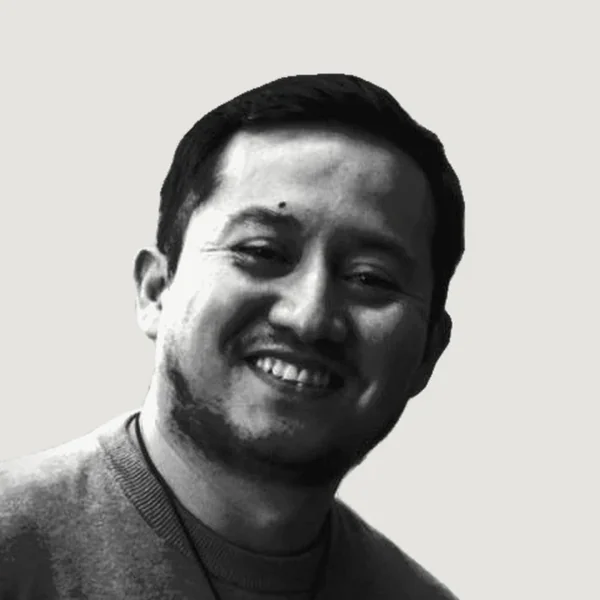
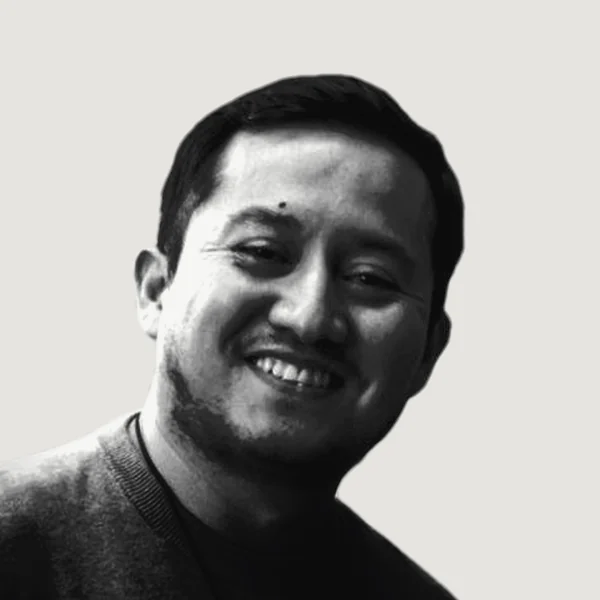
R6b: hallazgos de la verificación R6
- Nosotros: la credencial va pegada a la bio; cargo, nombre y enlaces siguen alineados por filas, sin hueco en la ficha de Lorenzo.
- Retratos quietos (Parallax con `quieto`) en la portada y /libro; el pelo ya no toca el filete.
- Retrato de Eddie rehecho: borde suave y suéter más oscuro, misma escala y encuadre.
- /libro: credencial en seminegrita; tarjeta del PDF rotulada «PDF»; la nota ya no repite el descargo del pie (también en /programas).
- /actualizaciones: columna «Valor vigente» solo cuando hay valor; el aviso va una vez en la entradilla; nota final sin repetir el descargo.
- /workbook/[id]: el recuadro «trae» no se repite cuando solo nombra plantillas de «Necesitas antes»; «Siguiente plantilla» a 24 px; «Descarga el kit» con el mismo destino que el encabezado.
- «Diagnóstico de nivel» con mayúscula en la portada y en sitio.ts.
- Portada, Programas: en celular el dato va debajo del nombre.
- PENDIENTES-WEB y reglas-diseno al día.

Claude-Session: https://claude.ai/code/session_0138EnzXfWhPJtfVtctGk4Mc

diff --git a/src/app/(site)/actualizaciones/page.tsx b/src/app/(site)/actualizaciones/page.tsx
@@ -10,6 +10,10 @@ export const metadata: Metadata = {
   alternates: { canonical: "/actualizaciones" },
 };
 
+/** La columna «Valor vigente» aparece cuando al menos una cifra tiene su valor del año; mientras tanto, el aviso va una vez bajo el titular. */
+const HAY_VIGENTE = ACTUALIZACIONES.some((c) => c.valores.some((v) => v.vigente));
+const COLS = HAY_VIGENTE ? "lg:grid-cols-[minmax(0,1.5fr)_minmax(0,1fr)_minmax(0,1fr)_minmax(0,1fr)_minmax(0,1fr)]" : "lg:grid-cols-[minmax(0,1.5fr)_minmax(0,1fr)_minmax(0,1fr)_minmax(0,1fr)]";
+
 export default function ActualizacionesPage() {
   return (
     <>
@@ -18,7 +22,7 @@ export default function ActualizacionesPage() {
           <HeroHead id="act-h" label={["Doble Agente", "Anexos por país"]} title="Valores del año" />
           <p className="lead mt-5 lg:mt-7 max-w-[780px]">
             Las cifras que cambian cada año van marcadas «valor 2026» en el libro. Aquí está cada una con el capítulo o la plantilla que la usa y el sitio oficial donde
-            verificas la del año en que calculas.
+            verificas la del año en que calculas.{HAY_VIGENTE ? "" : " Cuando la autoridad fije el valor del año, lo sumamos a la tabla."}
           </p>
           <nav aria-label="Países" className="flex flex-wrap gap-x-6 gap-y-2 mt-7">
             {ACTUALIZACIONES.map((c) => (
@@ -42,16 +46,16 @@ export default function ActualizacionesPage() {
               </Mono>
             </div>
             <div className="mt-6 border-b border-t border-ink lg:border-t-0">
-              <div className="hidden lg:grid grid-cols-[minmax(0,1.5fr)_minmax(0,1fr)_minmax(0,1fr)_minmax(0,1fr)_minmax(0,1fr)] gap-6 py-2 wm text-ink3 font-medium border-t border-b border-ink" aria-hidden="true">
+              <div className={`hidden lg:grid ${COLS} gap-6 py-2 wm text-ink3 font-medium border-t border-b border-ink`} aria-hidden="true">
                 <span>Cifra</span>
                 <span>Valor 2026 en el libro</span>
                 <span>Dónde se usa</span>
-                <span>Valor vigente</span>
+                {HAY_VIGENTE && <span>Valor vigente</span>}
                 <span>Dónde verificar</span>
               </div>
               <ul>
                 {c.valores.map((v) => (
-                  <li key={v.nombre} className="grid gap-x-6 gap-y-2 py-4 border-t border-ink3 first:border-t-0 lg:grid-cols-[minmax(0,1.5fr)_minmax(0,1fr)_minmax(0,1fr)_minmax(0,1fr)_minmax(0,1fr)]">
+                  <li key={v.nombre} className={`grid gap-x-6 gap-y-2 py-4 border-t border-ink3 first:border-t-0 ${COLS}`}>
                     <span className="text-cuerpo font-bold leading-[1.35]">{v.nombre}</span>
                     <span className="text-cuerpo">
                       <span className="wm text-ink2 lg:hidden block">Valor 2026 en el libro</span>
@@ -61,10 +65,12 @@ export default function ActualizacionesPage() {
                       <span className="wm text-ink2 lg:hidden block">Dónde se usa</span>
                       {v.donde}
                     </span>
-                    <span className="text-recuadro leading-[1.4]">
-                      <span className="wm text-ink2 lg:hidden block">Valor vigente</span>
-                      {v.vigente ?? <span className="text-ink2">Se publica cuando la autoridad lo fija</span>}
-                    </span>
+                    {HAY_VIGENTE && (
+                      <span className="text-recuadro leading-[1.4]">
+                        <span className="wm text-ink2 lg:hidden block">Valor vigente</span>
+                        {v.vigente ?? <span className="text-ink2">Pendiente</span>}
+                      </span>
+                    )}
                     <span className="text-recuadro leading-[1.4]">
                       <span className="wm text-ink2 lg:hidden block">Dónde verificar</span>
                       <a href={v.fuente.href} target="_blank" rel="noopener noreferrer" className="ul font-semibold [overflow-wrap:anywhere]">
@@ -96,8 +102,7 @@ export default function ActualizacionesPage() {
         <div className="wrap py-10 lg:py-14 grid gap-3 max-w-[900px]">
           <p className="text-cuerpo font-bold">Última revisión: {REVISION}</p>
           <Nota>
-            Este libro es orientación general. No es asesoría legal, tributaria ni financiera, y las reglas cambian entre países y con el tiempo. Antes de firmar un contrato,
-            aceptar un rol o emitir tu primer comprobante, valida tu caso con un especialista.
+            Las reglas cambian entre países y con el tiempo. Antes de firmar un contrato, aceptar un rol o emitir tu primer comprobante, valida tu caso con un especialista.
           </Nota>
           <p className="text-recuadro">
             Si tu país no está aquí, el método funciona igual; lleva las preguntas de cada anexo a tu abogado o abogada laboral y a tu contador o contadora.{" "}

diff --git a/src/app/(site)/page.tsx b/src/app/(site)/page.tsx
@@ -98,9 +98,9 @@ function Method() {
           <Ladder />
         </div>
         <div className="flex flex-col lg:flex-row lg:justify-between lg:items-baseline gap-2 mt-6 lg:mt-8">
-          <p className="text-cuerpo text-ink2">El diagnóstico de nivel te ubica con tus números en {CUANTAS} preguntas.</p>
+          <p className="text-cuerpo text-ink2">El Diagnóstico de nivel te ubica con tus números en {CUANTAS} preguntas.</p>
           <LinkArrow href="/diagnostico" className="text-cuerpo">
-            Hacer el diagnóstico de nivel
+            Hacer el Diagnóstico de nivel
           </LinkArrow>
         </div>
       </div>
@@ -245,11 +245,11 @@ function Products() {
               <ul className="grid sm:grid-cols-2 gap-x-8 px-5 lg:px-8 py-2 lg:py-3 content-center">
                 {items.map((w) => (
                   <li key={w.name}>
-                    <Link href={w.href} className="group flex justify-between items-baseline gap-4 py-3">
+                    <Link href={w.href} className="group flex flex-col gap-1 sm:flex-row sm:justify-between sm:items-baseline sm:gap-4 py-3">
                       <span className="text-cuerpo font-bold leading-[1.3]">
                         <span className="lnk">{w.name}</span>
                       </span>
-                      <Mono tone="gris" as="span" className="text-right shrink-0">
+                      <Mono tone="gris" as="span" className="sm:text-right sm:shrink-0">
                         {w.meta}
                       </Mono>
                     </Link>
@@ -278,29 +278,32 @@ function Founders() {
     <section id="nosotros" className="border-t border-ink" aria-labelledby="nos-t">
       <div className="wrap pt-12 pb-14 lg:pt-[88px] lg:pb-24">
         <SecHead id="nos-t" className="max-w-[900px]" label={["Nosotros", "Autores del libro"]} title="Eddie y Lorenzo escribieron el libro y dirigen los programas" />
-        {/* Filas compartidas (subgrid): cargo, nombre, credencial, bio y enlaces arrancan a la misma altura en las dos columnas,
-            aunque solo una bio traiga credencial. */}
-        <div className="grid gap-y-10 lg:gap-x-16 lg:gap-y-0 lg:grid-cols-2 lg:grid-rows-[auto_auto_auto_auto_1fr] mt-8 lg:mt-14">
+        {/* Filas compartidas (subgrid): cargo, nombre y enlaces arrancan a la misma altura en las dos columnas.
+            La credencial va dentro del bloque de la bio, para que la bio quede pegada al nombre aunque solo una ficha la traiga. */}
+        <div className="grid gap-y-10 lg:gap-x-16 lg:gap-y-0 lg:grid-cols-2 lg:grid-rows-[auto_auto_auto_1fr] mt-8 lg:mt-14">
           {FOUNDERS.map((f) => (
             <article
               key={f.key}
-              className="rv grid sm:gap-x-8 sm:grid-cols-[200px_minmax(0,1fr)] sm:grid-rows-[auto_auto_auto_auto_1fr] lg:row-span-5 lg:grid-rows-subgrid xl:grid-cols-[240px_minmax(0,1fr)]"
+              className="rv grid sm:gap-x-8 sm:grid-cols-[200px_minmax(0,1fr)] sm:grid-rows-[auto_auto_auto_1fr] lg:row-span-4 lg:grid-rows-subgrid xl:grid-cols-[240px_minmax(0,1fr)]"
             >
               <Parallax
                 src={f.photo}
                 alt={`Retrato de ${f.name} en duotono`}
                 sizes="(min-width: 1280px) 240px, (min-width: 640px) 200px, 180px"
-                className="w-[180px] sm:w-full aspect-[240/296] bg-warm border border-ink sm:row-span-5 self-start"
+                className="w-[180px] sm:w-full aspect-[240/296] bg-warm border border-ink sm:row-span-4 self-start"
                 position="center 30%"
+                quieto
               />
               <Mono tone="gris" className="mt-4 sm:mt-0">
                 {f.role}
               </Mono>
               <h3 className="wh2 text-h2 mt-2 lg:mt-3">{f.name}</h3>
-              <div className={f.cred ? "text-cuerpo font-semibold mt-2" : ""}>{f.cred}</div>
-              <p className="wt mt-2.5 lg:mt-3">
-                <Sc text={f.bio} />
-              </p>
+              <div>
+                {f.cred ? <p className="text-cuerpo font-semibold mt-2.5 lg:mt-3">{f.cred}</p> : null}
+                <p className="wt mt-2.5 lg:mt-3">
+                  <Sc text={f.bio} />
+                </p>
+              </div>
               <p className="self-end pt-3 lg:pt-4 flex flex-wrap gap-x-6 gap-y-2">
                 <a href={f.webUrl} target="_blank" rel="noopener noreferrer" className="wm ul inline-flex items-end min-h-6">
                   {f.web}

diff --git a/src/app/(site)/libro/page.tsx b/src/app/(site)/libro/page.tsx
@@ -285,7 +285,7 @@ function Workbook() {
 function Formats() {
   const fmts = [
     { n: "Ebook e impreso", w: "Amazon", d: "El ebook se lee en Kindle, en una tableta o en la computadora. El impreso es una edición de bolsillo ejecutivo de 150 × 220 mm, impresa por Amazon.", btn: <AmazonBtn className="w-full" /> },
-    { n: "Libro en PDF", w: CHECKOUT_URL ? "Mercado Pago" : "WhatsApp", d: CHECKOUT_URL ? "Para leer en una tableta o en la computadora. Te llega a tu correo en un plazo máximo de 6 horas después del pago." : "Para leer en una tableta o en la computadora, sin pasar por Amazon.", btn: <MercadoPagoBtn className="w-full" /> },
+    { n: "Libro en PDF", w: CHECKOUT_URL ? "Mercado Pago" : "PDF", d: CHECKOUT_URL ? "Para leer en una tableta o en la computadora. Te llega a tu correo en un plazo máximo de 6 horas después del pago." : "Para leer en una tableta o en la computadora, sin pasar por Amazon.", btn: <MercadoPagoBtn className="w-full" /> },
   ];
   return (
     <section id="formatos" className="bg-warm" aria-labelledby="formatos-t">
@@ -312,7 +312,7 @@ function Formats() {
           ))}
         </div>
         <Nota className="mt-6 lg:mt-8 max-w-[980px]">
-          El libro no promete ingresos ni plazos. Cada persona parte de un sueldo, un ahorro y un mercado distintos, y el libro te ayuda a medir los tuyos.
+          Cada persona parte de un sueldo, un ahorro y un mercado distintos, y el libro te ayuda a medir los tuyos.
         </Nota>
       </div>
     </section>
@@ -328,11 +328,11 @@ function Authors() {
         <div className="grid gap-8 lg:gap-16 sm:grid-cols-2 mt-8 lg:mt-11">
           {FOUNDERS.map((f) => (
             <div key={f.key} className="rv grid gap-5 grid-cols-[96px_minmax(0,1fr)] lg:grid-cols-[120px_minmax(0,1fr)] items-start">
-              <Parallax src={f.photo} alt={`Retrato de ${f.name} en duotono`} sizes="120px" className="w-full aspect-[160/196] bg-warm border border-ink" position="center 30%" />
+              <Parallax src={f.photo} alt={`Retrato de ${f.name} en duotono`} sizes="120px" className="w-full aspect-[160/196] bg-warm border border-ink" position="center 30%" quieto />
               <div>
                 <Mono tone="gris">{f.role}</Mono>
                 <h3 className="wh2 text-h2 mt-2.5">{f.name}</h3>
-                {f.cred ? <p className="text-cuerpo mt-2">{f.cred}</p> : null}
+                {f.cred ? <p className="text-cuerpo font-semibold mt-2">{f.cred}</p> : null}
               </div>
             </div>
           ))}

diff --git a/src/components/site/Parallax.tsx b/src/components/site/Parallax.tsx
@@ -4,7 +4,8 @@ import Image from "next/image";
 import { useRef } from "react";
 import { motion, useReducedMotion, useScroll, useTransform } from "framer-motion";
 
-/** Imagen en duotono con parallax mínimo (±5 %) dentro de su marco. Quieta con prefers-reduced-motion. */
+/** Imagen en duotono con parallax mínimo (±5 %) dentro de su marco. Quieta con prefers-reduced-motion.
+ * `quieto`: sin parallax y sin el margen extra (retratos, para que el pelo no toque el filete del marco). */
 export default function Parallax({
   src,
   alt,
@@ -12,6 +13,7 @@ export default function Parallax({
   preload = false,
   className = "",
   position = "center",
+  quieto = false,
   children,
 }: {
   src: string;
@@ -20,6 +22,7 @@ export default function Parallax({
   preload?: boolean;
   className?: string;
   position?: string;
+  quieto?: boolean;
   children?: React.ReactNode;
 }) {
   const ref = useRef<HTMLDivElement>(null);
@@ -28,7 +31,7 @@ export default function Parallax({
   const y = useTransform(scrollYProgress, [0, 1], ["-5%", "5%"]);
   return (
     <div ref={ref} className={`relative overflow-hidden ${className}`}>
-      <motion.div className="absolute inset-[-6%_0]" style={reduce ? undefined : { y }}>
+      <motion.div className={quieto ? "absolute inset-0" : "absolute inset-[-6%_0]"} style={reduce || quieto ? undefined : { y }}>
         <Image src={src} alt={alt} fill sizes={sizes} preload={preload} className="object-cover" style={{ objectPosition: position }} />
         {children}
       </motion.div>

diff --git a/src/content/sitio.ts b/src/content/sitio.ts
@@ -201,7 +201,7 @@ export const ARCH_NOTE =
 export type Product = { tag: string; name: string; desc: string; meta: string; cta: string; href: string };
 export const PRODUCTS: Product[][] = [
   [
-    { tag: "Gratis", name: "Kit «Plan de salida» y diagnóstico de nivel", desc: "Cinco plantillas para saber cuántos meses aguantas sin sueldo y un cuestionario que te dice en qué nivel estás.", meta: "Unas 2 horas", cta: "Descargar el kit", href: "/kit" },
+    { tag: "Gratis", name: "Kit «Plan de salida» y Diagnóstico de nivel", desc: "Cinco plantillas para saber cuántos meses aguantas sin sueldo y un cuestionario que te dice en qué nivel estás.", meta: "Unas 2 horas", cta: "Descargar el kit", href: "/kit" },
     { tag: "Libro", name: "Doble Agente", desc: "21 capítulos en cinco partes, con una plantilla del workbook por capítulo.", meta: "Ebook, impreso y PDF", cta: "Ver el libro", href: "/libro" },
     { tag: "Taller", name: "Tu primer rol parcial", desc: "Escribes tu oferta en una página y le pones precio, junto a ejecutivos que están en el mismo punto.", meta: "2 sesiones de 3 horas en vivo", cta: "Ver fechas", href: "/programas#taller" },
     { tag: "Programa", name: "Primer Mandato", desc: "Cohorte en vivo para llegar a tu primer comprobante, con oferta, precio, contrato modelo, 30 cuentas objetivo y 10 conversaciones.", meta: "8 semanas, de 12 a 20 personas", cta: "Ver la próxima cohorte", href: "/programas#primer-mandato" },

diff --git a/src/app/(site)/workbook/[id]/page.tsx b/src/app/(site)/workbook/[id]/page.tsx
@@ -125,7 +125,8 @@ function TemplatePage({ p }: { p: Plantilla }) {
                 </p>
               </>
             )}
-            {p.trae && (
+            {/* Si «trae» solo nombra plantillas, ya lo dice «Necesitas antes»: no se repite */}
+            {p.trae && !(p.uses.length > 0 && soloPlantillas(p.trae)) && (
               <p className="text-recuadro mt-4 px-3 py-2.5 bg-warm inline-block">
                 <Sc text={p.trae} />
               </p>
@@ -214,7 +215,7 @@ function TemplatePage({ p }: { p: Plantilla }) {
               </p>
               <div className="mt-5">
                 {p.kind === "kit" ? (
-                  <Link href="/kit#formulario" className="btn w-full">
+                  <Link href="/kit" className="btn w-full">
                     Descarga el kit
                   </Link>
                 ) : (
@@ -271,6 +272,11 @@ function TemplatePage({ p }: { p: Plantilla }) {
       </nav>
     </>
   );
+}
+
+/** «Trae la K.1 y la K.3.», «Trae tu plantilla 7.1.»: el texto no dice nada más que los códigos de otras plantillas. */
+function soloPlantillas(t: string) {
+  return t.replace(/\b(Trae|tus?|la|las|plantillas?|y)\b/g, "").replace(/K\.\d+|\d+\.\d+/g, "").replace(/[\s.,]/g, "") === "";
 }
 
 export default async function WorkbookPage({ params }: { params: Promise<{ id: string }> }) {

diff --git a/src/components/site/PlantillaCalc.tsx b/src/components/site/PlantillaCalc.tsx
@@ -319,7 +319,7 @@ export default function PlantillaCalc({ id, code, calc, avisos, who, check, next
         {next && (
           <div className="mt-5">
             <span className="wm text-ink2 block">Siguiente plantilla</span>
-            <LinkArrow href={`/workbook/${next.id}`} className="text-recuadro mt-1">
+            <LinkArrow href={`/workbook/${next.id}`} className="text-recuadro mt-1 min-h-6">
               {next.code} {next.title}
             </LinkArrow>
           </div>

diff --git a/src/app/(site)/programas/page.tsx b/src/app/(site)/programas/page.tsx
@@ -104,7 +104,7 @@ export default function ProgramasPage() {
               </div>
             );
           })}
-          <Nota>Ningún programa promete ingresos ni plazos. Cada uno trabaja sobre tus números y tu mercado, y la decisión de cuándo avanzar es tuya.</Nota>
+          <Nota>Cada programa trabaja sobre tus números y tu mercado, y la decisión de cuándo avanzar es tuya.</Nota>
         </div>
       </section>
 

diff --git a/docs/reglas-diseno.md b/docs/reglas-diseno.md
@@ -47,16 +47,16 @@ Fuente del sistema: `DESIGN-SYSTEM.md` y `tokens.css` de la R3 (carpeta `sistema
 - Diagnóstico de nivel: un solo paso por resultado. Con colchón de menos de 6 meses o sin calcular, el botón es «Abrir la K.1» y la plantilla del nivel queda como enlace en «Tu siguiente paso».
 - /programas: los programas seguidos del mismo nivel comparten una casilla de nivel (taller y Primer Mandato).
 - /libro#metodo: apertura y cierre usan las columnas de los capítulos (código, título y segunda columna). Sin leyenda de niveles: cada parte dice sus niveles y lleva su indicador. En celular solo la Parte 01 llega abierta; las demás se abren con «Ver las N ideas» (`ParteMetodo.tsx`).
-- /libro#formatos: dos tarjetas, «Ebook e impreso» (Amazon) y «Libro en PDF». Si Amazon da enlaces distintos para cada formato, se vuelven a separar.
+- /libro#formatos: dos tarjetas, «Ebook e impreso» (Amazon) y «Libro en PDF». Sin `NEXT_PUBLIC_CHECKOUT_URL`, el rótulo de la tarjeta del PDF es «PDF» (no «WhatsApp»), para no nombrar dos canales en el bloque. Si Amazon da enlaces distintos para cada formato, se vuelven a separar.
 - En /kit, el botón del encabezado baja a `#formulario`.
 - Páginas legales: el subtítulo de cada bloque va fuera de `.wt` (Archivo, como en el resto del sitio); solo los párrafos van en serif.
-- Nosotros (R6): las dos fichas comparten filas con subgrid (cargo, nombre, credencial, bio y enlaces) y los enlaces de las webs y LinkedIn miden 24 px de alto como mínimo (tamaño de destino WCAG 2.2).
+- Nosotros (R6, ajustado en R6b): las dos fichas comparten filas con subgrid (cargo, nombre, bloque de credencial y bio, y enlaces); la credencial va pegada a la bio para que la ficha sin credencial no deje hueco. En /libro la credencial va en seminegrita, como en la portada, y los enlaces de las webs y LinkedIn miden 24 px de alto como mínimo (tamaño de destino WCAG 2.2).
 - Accesibilidad (R6): los botones y enlaces repetidos llevan contexto para lectores de pantalla («Postular: Primer Mandato», «Ver la parte 01, Diagnóstico»); en `/workbook/k1` el titular de la figura de la calculadora es h2 (sigue al h1); en /kit, h3 bajo el h2 de la sección.
 - /programas#postular va sobre papel con filete superior: dos bloques contiguos con funciones distintas no comparten fondo, y el pie es papel cálido.
 - Línea de privacidad única bajo los cuatro formularios (`PrivacidadLinea`, texto en `PRIVACIDAD_LINEA` de `sitio.ts`), con el enlace a /privacidad.
 
 ## 5. Imágenes y diagramas
-- Retratos de Eddie y Lorenzo (R6): recortados sobre fondo sólido papel cálido `#E6E4E0`, el mismo del marco (`bg-warm`, filete de 1 px en tinta). El tamaño de las cabezas se iguala en el archivo, no con CSS: las dos a la misma escala y con el pelo al 12 % del alto, para que el parallax no corte la cabeza. Sin `zoom` en `Parallax`. En celular el retrato mide 180 px de ancho (proporción 240/296), no el ancho de la pantalla, porque la foto de origen tiene 600 px.
+- Retratos de Eddie y Lorenzo (R6): recortados sobre fondo sólido papel cálido `#E6E4E0`, el mismo del marco (`bg-warm`, filete de 1 px en tinta). El tamaño de las cabezas se iguala en el archivo, no con CSS: las dos a la misma escala y con el pelo al 12 % del alto, para que el parallax no corte la cabeza. Sin `zoom` en `Parallax`. Desde la R6b los retratos van quietos (`Parallax` con `quieto`, sin recorrido ni margen extra), para que el pelo no toque el filete del marco; el parallax sigue en la ilustración del inicio. El de Eddie se rehízo con borde suave y el suéter más oscuro (`web-r6/retrato/rehacer_eddie.py`, misma escala y encuadre). En celular el retrato mide 180 px de ancho (proporción 240/296), no el ancho de la pantalla, porque la foto de origen tiene 600 px.
 - Fotos reales de Eddie y Lorenzo en duotono, ilustraciones propias del libro (ajedrez, puerta) y páginas reales del libro. Sin fotos de stock y sin pies de foto visibles (la descripción va en el texto alternativo).
 - El cuadrado magenta sobre la ilustración del inicio se mantiene (cuadrado de marca).
 - Escalera (marco 0.1) con los colores por token, el nivel elegido marcado en magenta y la ruta discontinua en tinta.
@@ -115,7 +115,10 @@ Fuente del sistema: `DESIGN-SYSTEM.md` y `tokens.css` de la R3 (carpeta `sistema
 - «Cinco plantillas, unas 2 horas»: rótulo bajo los botones del inicio y cifras del héroe de /kit.
 - «El workbook es gratis»: rótulo del héroe de /libro y rótulo de la sección Workbook.
 - «Se llena en una tableta, en la computadora o en papel»: formulario de descarga del workbook y «Dónde se llena» de cada plantilla.
-- «No es asesoría legal, tributaria ni financiera»: pie de todas las páginas y /terminos.
+- «No es asesoría legal, tributaria ni financiera»: pie de todas las páginas y /terminos. La negación «no promete ingresos ni plazos» queda solo en el pie: las notas de /libro#formatos y /programas dicen solo lo que sí hace cada uno (R6b). /actualizaciones cierra con «Las reglas cambian… valida tu caso con un especialista», sin repetir el descargo.
+- /actualizaciones: la columna «Valor vigente» aparece solo cuando alguna cifra tiene `vigente`; mientras tanto, la entradilla lo dice una vez (R6b).
+- /workbook/[id]: el recuadro «trae» no se pinta cuando solo nombra plantillas que ya están en «Necesitas antes» (R6b). «Siguiente plantilla» mide 24 px de alto.
+- Portada, Programas: en celular el dato (duración, formato) va debajo del nombre del programa.
 - Arquetipos armados a partir de conversaciones reales: nota de la portada; /libro conserva el dato de los más de 30 ejecutivos.
 - Programas de cada nivel (R6): una vez en la portada, en la sección Programas, y en detalle en /programas. El panel de la escalera ya no repite «Te acompaña»; dice la señal, los capítulos y qué arquetipo empieza ahí. El resultado del Diagnóstico sí la conserva, porque ahí es la respuesta.
 - «Cómo se ve» bajo la escalera: un solo rótulo para la fila («Cómo se ve cada nivel»), no uno por columna.
@@ -139,6 +142,7 @@ Fuente del sistema: `DESIGN-SYSTEM.md` y `tokens.css` de la R3 (carpeta `sistema
 - Los valores de `origen` de `DownloadForm.tsx` y `EmailCta.tsx` («Página del kit», «Cierre de página») van a la columna «Origen» de la hoja de registros, no son textos visibles. Los campos de cada formulario están en `src/lib/registro.ts` y en `apps-script/Code.gs`, y se cambian en los dos.
 
 ## 10. Estado del rediseño
+- Ronda R6b, 16/11/2026: hallazgos de la verificación R6 (Nosotros sin hueco, retratos quietos y recorte nuevo de Eddie, descargos una sola vez, /actualizaciones, workbook, celular).
 - Ronda R6, 16/11/2026: pasada de coherencia visual, propuesta de valor, accesibilidad, navegación y redundancias, con la voz sin IA, sobre la rama `claude/clever-edison-pcwxrr`. Capturas en la carpeta `web-r6` del proyecto del libro (`antes/` y `<ancho>_<ruta>.png`).
 - Ronda R5b, 16/11/2026: hallazgos de la revisión R5 (diff 214f3cb..4243531) que no eran decisión del dueño, sobre la misma rama y sin publicar. Capturas en `web-r5` (sobrescritas) y lámina `web-r5/antes-despues.png`.
 - Ronda R5 de la web, 16/11/2026: las 13 decisiones del dueño de la sección 7, sobre la rama `claude/clever-edison-pcwxrr`, sin publicar. Capturas antes y después en la carpeta `web-r5` del proyecto del libro.

diff --git a/PENDIENTES-WEB.md b/PENDIENTES-WEB.md
@@ -16,13 +16,13 @@ Lista de lo que falta para pasar de vista previa a la web definitiva. Marca cada
 - [ ] **Puerta de impresión.** Antes de mandar el libro a imprenta: cada plantilla con «Calculadora en línea» en el workbook tiene su calculadora en `/workbook/<id>` en producción (hoy: K.1, 1.1, 2.1, 5.1, 6.1, 9.1, 10.1, 11.1, 13.1, 14.1, 17.1, 18.1 y 19.1), y `futurefounders.pe/workbook`, `/kit`, `/actualizaciones` y `/agenda` responden.
 - [x] **Privacidad y términos.** /privacidad y /terminos publicadas en la rama (16/11/2026), enlazadas en el pie y bajo cada formulario. Texto en `src/content/legal.ts`.
 - [ ] **Entrega del PDF pagado con Mercado Pago.** Definir quién envía el archivo, en qué plazo y si hay devolución. Hoy la web no promete plazo ni forma de entrega (se quitó «Te llega por correo al confirmar el pago» de /libro y «la entrega es por correo» de /terminos, R5b): el envío sería manual. Con la decisión, sumar una línea a la tarjeta «Libro en PDF» y al bloque «Compras» de /terminos.
-- [x] **Cifras de la casa frente a las webs personales.** Resuelto en la R5c (USD 26M+ y USD 2,7M+). «USD 20M+ facturados» convive en la portada con «cuyo portafolio facturó USD 26 millones en 2025» (bio de Eddie), y «USD 1,5M+ capital levantado» frente a «USD 2,7M levantados» en eddieajalcrina.com y lorenzoortiz.co. Opciones: actualizar las cifras, o precisar en `CIFRAS_NOTA` el periodo y qué suman.
+- [x] **Cifras de la casa frente a las webs personales.** Resuelto en la R5c (USD 26M+ y USD 2,7M+).
 - [ ] **Privacidad y términos: texto base, pendiente de revisión legal.** /privacidad ya nombra a Vercel como alojamiento que procesa cada envío (R5b). Que un abogado revise las dos páginas. Preguntas abiertas para el dueño: plazo de conservación de los datos, ley aplicable y jurisdicción, y política de devolución del PDF. Confirmar que el hosting no tiene activada analítica propia (la página dice que no hay cookies de publicidad ni de seguimiento; en el repo no hay analítica).
 
 ## Ronda R6 (16/11/2026): preguntas abiertas
 
 - [ ] **PDF completo del libro en `public/`.** `public/Libro FF-MOD06.pdf` (174 páginas, «El manual para fundadores con salario», subido el 30/10/2026) se publica tal cual en `futurefounders.pe/Libro%20FF-MOD06.pdf`, aunque ninguna página lo enlaza. Mientras el PDF del libro se vende, ¿lo borramos del repositorio (opción A), lo movemos fuera de `public/` (opción B) o se queda (opción C)? No se tocó sin tu respuesta.
-- [ ] **Credencial de Lorenzo.** Eddie lleva una línea de credencial («Docente en MIT Professional Education desde 2022») y Lorenzo no, desde que salió la del Bio Business Playbook (R5c). Las fichas ya quedan alineadas por filas, con un hueco en la de Lorenzo. ¿Se suma una credencial de lorenzoortiz.co (opción A), se quita la de Eddie y su dato pasa a la bio (opción B) o se deja así (opción C)?
+- [ ] **Credencial de Lorenzo.** Eddie lleva una línea de credencial («Docente en MIT Professional Education desde 2022») y Lorenzo no, desde que salió la del Bio Business Playbook (R5c). Desde la R6b la credencial va pegada a la bio (cargo, nombre y enlaces alineados por filas), así que ya no deja hueco en la ficha de Lorenzo. ¿Se suma una credencial de lorenzoortiz.co (opción A), se quita la de Eddie y su dato pasa a la bio (opción B) o se deja así (opción C)?
 - [ ] **Tono de los retratos.** Los dos quedaron a la misma escala; la foto de Eddie tiene menos contraste que la de Lorenzo. Si hay una foto de Eddie de más resolución (más de 600 px), conviene reemplazarla.
 
 ## Rediseño R4 y R5: decisiones de diseño
